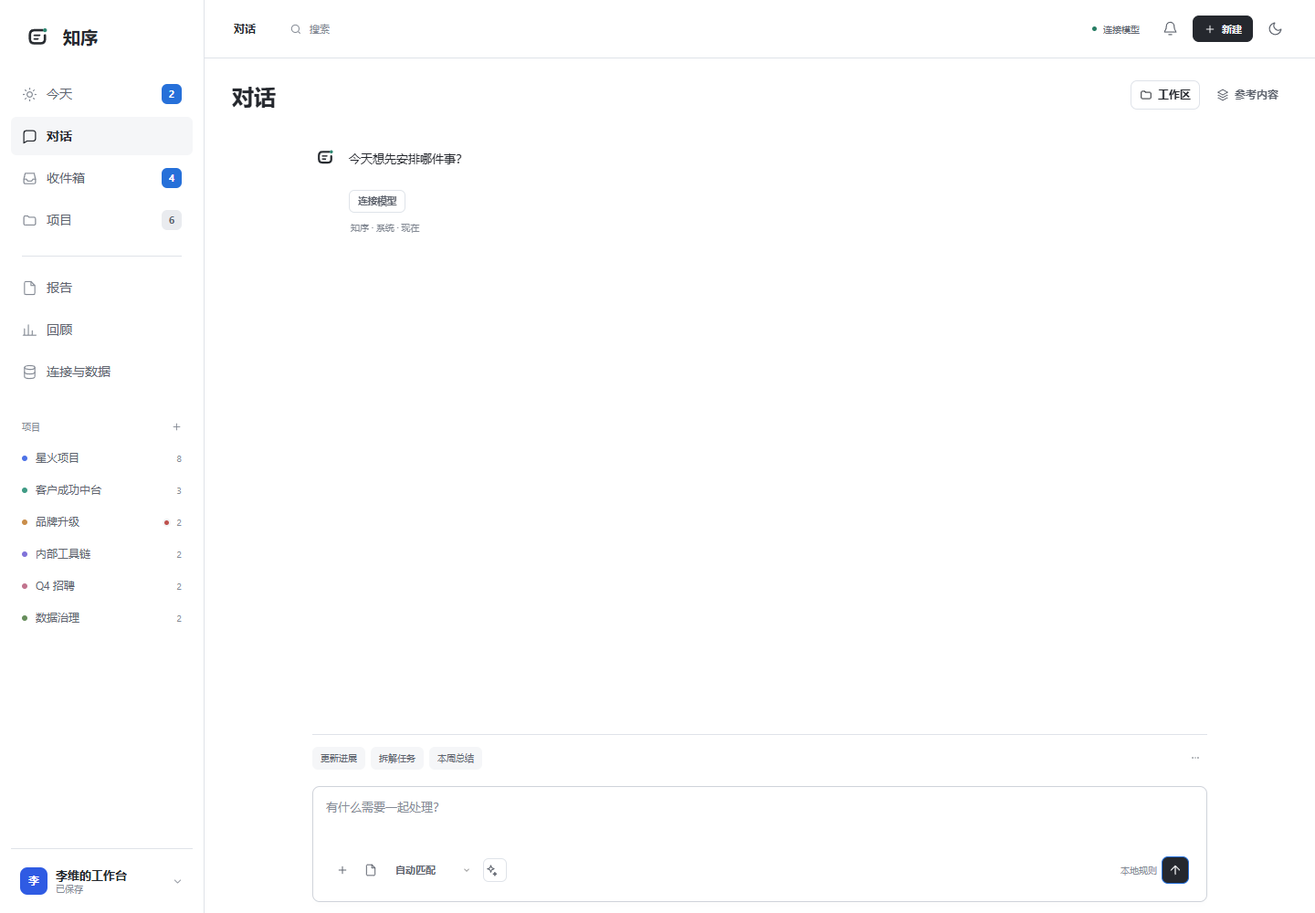
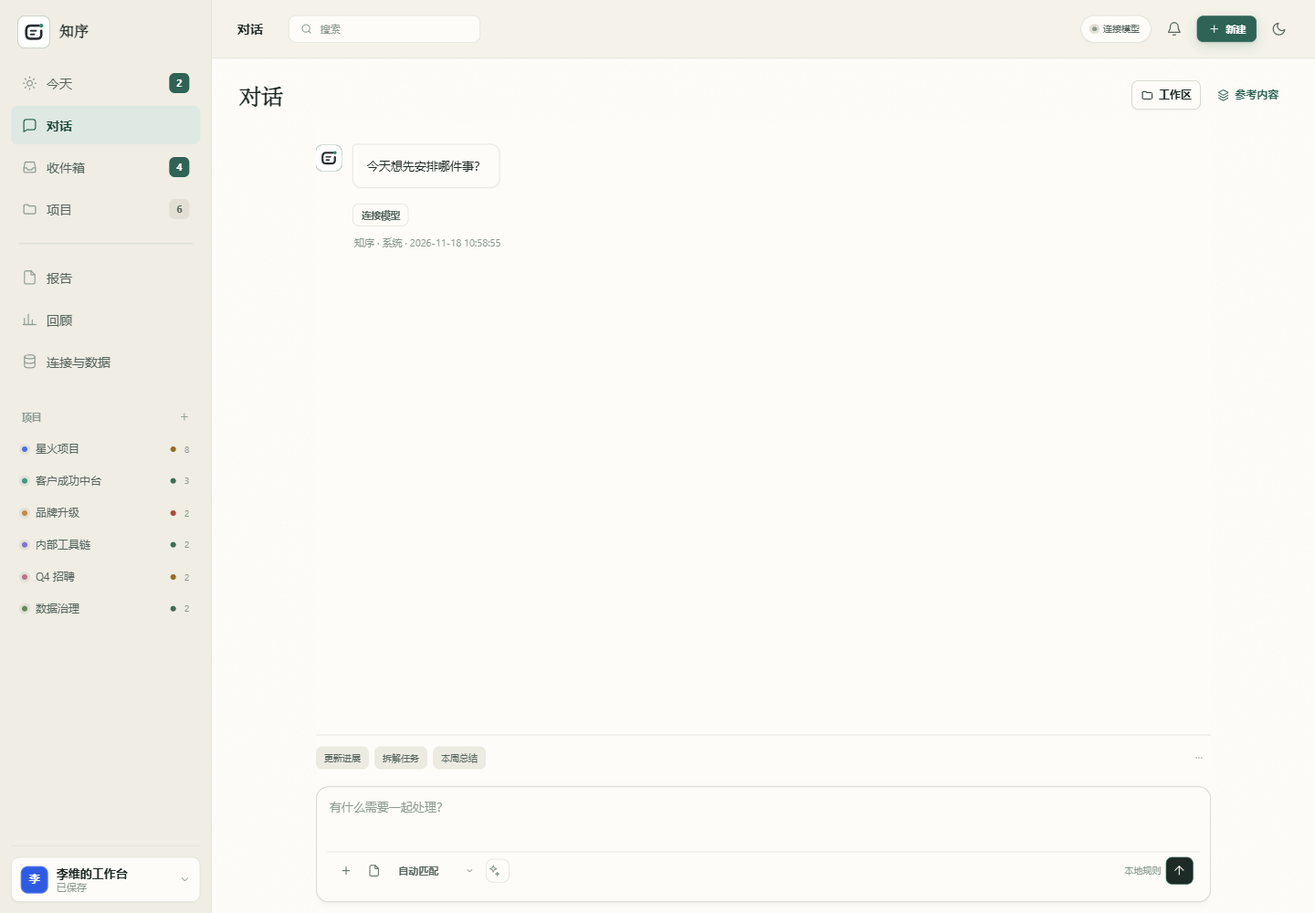
fix(ui): stabilize sidebar and clarify project status

diff --git a/prototype/premium.css b/prototype/premium.css
@@ -129,9 +129,22 @@ strong, b { font-weight: 640; }
   background: var(--bg-elev);
   border-right: 1px solid var(--line);
   padding: 16px 12px 12px;
-  position: relative;
+  position: sticky;
+  top: 0;
+  overflow: hidden;
   z-index: 1;
 }
+.sidebar > .brand,
+.sidebar > .nav,
+.sidebar > .side-section,
+.sidebar > .sidebar-footer { flex: 0 0 auto; }
+.sidebar > .project-nav {
+  flex: 1 1 0;
+  min-height: 0;
+  overflow-y: auto;
+  overscroll-behavior-y: contain;
+}
+.project-nav > .project-nav-item { flex-shrink: 0; }
 .brand { padding: 2px 8px 18px; }
 .brand-name { font-size: 16px; font-weight: 700; letter-spacing: .08em; color: var(--ink); }
 .brand-image { border-radius: 7px; }
@@ -165,6 +178,10 @@ strong, b { font-weight: 640; }
 .project-nav-item:hover { background: var(--surface-2); }
 .project-nav-item.active { background: var(--surface-2); color: var(--ink); font-weight: 640; }
 .project-nav-item .dot { box-shadow: 0 0 0 3px color-mix(in srgb, currentColor 10%, transparent); }
+.project-nav-item .project-health-dot { width: 6px; height: 6px; flex: 0 0 6px; border-radius: 50%; }
+.project-health-dot.green { background: var(--green); }
+.project-health-dot.amber { background: var(--amber); }
+.project-health-dot.red { background: var(--red); }
 .side-label { font-size: 10.5px; font-weight: 650; letter-spacing: .09em; text-transform: uppercase; color: var(--ink-3); }
 .workspace-switch {
   border: 1px solid var(--line); background: var(--surface); border-radius: 9px;
@@ -238,7 +255,7 @@ strong, b { font-weight: 640; }
 }
 .card:hover, .settings-card:hover { border-color: var(--line-strong); box-shadow: var(--shadow-md); }
 .panel-head { border-bottom: 1px solid var(--line); }
-.stat-value { font-variant-numeric: tabular-nums; font-weight: 700; letter-spacing: -.01em; font-family: Georgia, serif; }
+.stat-value { font-variant-numeric: lining-nums tabular-nums; font-weight: 600; letter-spacing: normal; font-family: var(--font); }
 .stat-label { color: var(--ink-3); font-size: 11.5px; }
 
 /* ============================ 表单 / 标签 ============================ */

diff --git a/prototype/views-core.js b/prototype/views-core.js
@@ -18,7 +18,7 @@ function renderSidebar() {
     <button class="project-nav-item ${state.view === 'project' && state.projectId === p.id ? 'active' : ''}" data-action="project" data-id="${p.id}">
       <span class="dot" style="background:${p.color}"></span>
       <span class="pname">${esc(p.name)}</span>
-      ${p.health === 'red' ? '<span class="risk-dot" title="有风险"></span>' : ''}
+      <span class="project-health-dot ${p.health === 'red' ? 'red' : p.health === 'amber' ? 'amber' : 'green'}" role="img" title="${p.health === 'red' ? '风险' : p.health === 'amber' ? '需关注' : '正常'}" aria-label="状态：${p.health === 'red' ? '风险' : p.health === 'amber' ? '需关注' : '正常'}"></span>
       <span class="pcount">${allWorkbenchTasks().filter(t => t.project === p.id && !t.done).length}</span>
     </button>
   `).join('');

diff --git a/docs/26-知序操作手册.md b/docs/26-知序操作手册.md
@@ -1,16 +1,16 @@
 # 知序操作手册
 
-适用版本：0.2.19。更新日期：2026-11-09。
+适用范围：当前 Windows 桌面源码。更新日期：2026-11-18。安装包的功能以对应正式 Release 说明为准。
 
 本手册以 Windows 桌面版为准。通过“网页访问”开启的 HTTPS 工作台与桌面共用数据，使用方法见第 13 节；开发端口上的本地浏览器预览仍有独立数据。插件、终端、本机目录和原生浏览器功能在桌面使用。
 
 ## 1. 从哪里开始
 
-1. 安装 GitHub Releases 中的 `Zhixu-0.2.19-Windows-Setup.exe`，从桌面的“知序”打开。
+1. 从 GitHub Releases 下载最新正式版的 `Zhixu-<版本>-Windows-Setup.exe`，安装后从“知序”入口打开。
 2. 点击左侧底部的工作台头像，设置姓名、工作台信息和头像，保存。头像支持 JPG、PNG、WebP，最大 5 MB；也可以选择颜色。
 3. 如需 AI 问答和文档理解，在个人设置中配置供应商，具体见第 3 节。不配置时仍能手动管理项目、任务，并使用本地事项整理规则。
 4. 到“项目”创建实际项目，填写负责人、目标和干系人。
-5. 使用“添加事项”录入工作，或上传资料分析，再检查日期、负责人和任务内容。
+5. 使用顶部“新建”录入事项，或上传资料分析，再检查日期、负责人和任务内容。
 
 首次运行会显示示例资料。示例不代表你的真实项目；新建自己的项目后，再按需要逐项处理示例，避免误删实际工作记录。
 
@@ -46,6 +46,18 @@ flowchart LR
 
 左侧数量角标分别提示今天未完成任务、收件箱待处理事项和项目数。窄窗口保留角标；超过 99 显示 `99+`，悬停查看完整数量。不同模块的统计口径不同，例如“项目”统计仅包含已关联项目的任务。
 
+左侧“今天”至“连接与数据”的主导航和底部工作台保持可见。项目较多时，在项目名称列表内滚动；列表使用中间剩余空间，项目标题、主导航和工作台不会随列表移动。页面主内容与项目列表分别滚动。窄窗口沿用精简侧栏，项目列表可能折叠，可从主导航“项目”进入项目页。
+
+项目列表中，名称左侧圆点表示项目配色；右侧小点表示健康状态，与项目设置中的健康度同步：
+
+| 右侧小点 | 含义 |
+| --- | --- |
+| 绿色 | 正常 |
+| 黄色 | 需关注 |
+| 红色 | 风险 |
+
+悬停在状态小点上可查看文字说明；辅助阅读也会读出状态。小点旁的数字为该项目尚未完成的任务数量，与健康状态是两项信息。
+
 顶部铃铛打开“本地简报”，查看待确认、等待事项、计时及关注的里程碑。它不是系统推送通知，也不会在退出知序后自动发提醒。
 
 ## 3. 配置模型并开始对话
@@ -61,6 +73,8 @@ flowchart LR
 诊断失败时查看具体的接口路径、HTTP 状态、耗时和处理建议。认证错误优先核对密钥与权限；模型不存在时核对模型名；网络超时先检查接口地址和网络。模型列表能获取，不代表真实问答一定成功，需同时检查真实请求结果。
 
 密钥填写在应用内，不要粘贴到对话、手册、截图或 GitHub。桌面版凭据使用 Windows 系统安全存储加密。
+
+没有自有 API Key 时，可在“设置 → 模型”选择内置免费 AI（体验版），先阅读并确认其数据处理中转说明；体验额度有限。也可继续使用本地规则，手动管理项目与任务。获取自己的 API Key、改用其他供应商或关闭内置模式均在模型设置中完成。
 
 ### 3.2 提问、下指令、更新进展
 
@@ -98,7 +112,7 @@ flowchart LR
 
 在“干系人”点击“添加干系人”，填写姓名和角色；可继续添加、修改或移除，最后点击“保存项目”。项目概览也提供管理入口。干系人用于记录人员关系，不代表向这些人发出邀请或自动开通账号。
 
-新项目会自动分配颜色，项目卡片、侧栏圆点保持一致，重启后保留。卡片与列表视图均可打开项目，列表中的操作列可编辑、删除。
+新项目会自动分配颜色，项目卡片与侧栏左侧圆点保持一致，重启后保留。侧栏右侧小点单独表示健康状态，修改健康度后同步更新。卡片与列表视图均可打开项目，列表中的操作列可编辑、删除。
 
 ### 4.2 项目详情
 
@@ -242,6 +256,10 @@ flowchart LR
 
 进入“回顾”，查看实际完成比例、安排与投入趋势、计时记录，按需要维护个人实验。回顾用于检查安排是否合理，不会自动替你调整后续任务。
 
+顶部统计卡片显示所选周期的安排任务数、已完成数、完成比例和已记录专注时间。数字采用等高、等宽样式，百分比和小时单位与数字一起显示。完成比例来自实际任务，专注时间来自计时记录；切换字体样式不改变统计值。
+
+![回顾统计卡片与侧栏项目状态](images/readme-review.png)
+
 ## 10. 连接与数据
 
 ### 10.1 连接器
@@ -294,7 +312,7 @@ flowchart LR
 
 原附件通常在 `%APPDATA%\Zhixu\attachments\`，插件在 `%APPDATA%\Zhixu\plugins\`。修改过数据位置的环境，应以“关于 → 数据与隐私”显示的实际路径为准。
 
-0.2.17 起使用 `Zhixu` 作为默认数据目录名。升级会把旧版默认目录 `%APPDATA%\Xiaoyu\` 的数据库、附件、插件、网页配置和备份复制到新目录，完成校验后才启用；原目录保留。已有自定义数据位置继续沿用。迁移失败时继续使用原位置并提示，不覆盖已有的新目录。
+默认数据目录名为 `Zhixu`。检测到旧默认目录 `%APPDATA%\Xiaoyu\` 时，升级会复制数据库、附件、插件、网页配置和备份，完成校验后才启用新目录；原目录保留。已有自定义数据位置继续沿用。迁移失败时继续使用原位置并提示，不覆盖已有的新目录。
 
 更改数据位置：打开“设置 → 关于 → 数据与隐私”，点击“更改位置”，选择一个空文件夹并确认。知序会先保存当前工作、停止网页访问，再复制数据库、附件、插件、网页访问配置、备份和更新设置，校验数据库后自动重启。原位置保留完整副本，可在确认新位置正常后自行处理。目标不是空文件夹、位于当前数据文件夹内部或复制失败时，迁移会停止或清理目标，不会覆盖原数据。若启动时提示已选择的数据位置不可用，知序会改用默认位置启动，恢复原文件夹后可在同一处重新设置。
 
@@ -318,7 +336,7 @@ flowchart LR
 
 ## 13. 不同 Wi-Fi 下访问
 
-0.2.16 起，点击桌面左下工作台，在“设置 → 通用 → 网页访问”直接点击“开启网页访问”。密码留空时会自动生成 36 位强密码，显示在窗口并复制到剪贴板；复制生成的 HTTPS 地址，在手机或其他电脑浏览器打开地址并登录，使用原电脑上的同一份项目、任务、附件和模型配置。
+点击桌面左下工作台，在“设置 → 通用 → 网页访问”点击“开启网页访问”。密码留空时会自动生成 36 位强密码，显示在窗口并复制到剪贴板；复制生成的 HTTPS 地址，在手机或其他电脑浏览器打开地址并登录，使用原电脑上的同一份项目、任务、附件和模型配置。
 
 访问运行中也可以在“网页访问”窗口点“生成密码”立即应用新密码并重新开启入口，旧密码和原登录会话随即失效。密码只保存加盐哈希，关闭窗口后无法再次查看；忘记时重新生成并复制，不要凭截图中的旧密码尝试登录。
 
@@ -328,7 +346,7 @@ flowchart LR
 
 ## 14. 软件更新
 
-0.2.15 起，点击左下工作台，在“设置 → 版本与更新”查看当前版本、检查时间、下载进度和失败原因；同一窗口的“关于”可查看版本、打开 GitHub 仓库或提交反馈。
+点击左下工作台，在“设置 → 版本与更新”查看当前版本、检查时间、下载进度和失败原因；同一窗口的“关于”可查看版本、打开 GitHub 仓库或提交反馈。
 
 默认启动约 15 秒后检查，运行期间每 6 小时检查一次；发现正式新版本后后台下载并校验。下载完成会自动弹出更新窗口；若当前正在编辑其他窗口，更新窗口会等其关闭后显示，右下角也会保留“新版本已就绪”入口。点击“重启并更新”并确认后，应用保存工作、备份数据库并覆盖安装到原位置。不会新增另一个桌面程序，也不会强制重启。自动检查可关闭，关闭后仍能手动检查。
 
@@ -336,8 +354,8 @@ flowchart LR
 
 当前更新源为 GitHub Releases（仓库公开）：
 
-1. 0.2.15 起，更新检查固定匿名访问，无需 Git、GitHub 登录或更新凭据；其他电脑安装后也能独立检查公开版本。
-2. 0.2.13 及更早版本检查失败时，无法通过旧更新流程自行获得此修复。请从 GitHub Releases 手动下载 0.2.15 完整安装包覆盖安装一次，后续版本即可自动发现。
+1. 更新检查匿名访问公开版本，无需 Git、GitHub 登录或更新凭据；其他电脑安装后也能独立检查。
+2. 更新检查失败时，先重试；仍不可用时，从 GitHub Releases 下载最新正式版完整安装包，正常退出应用后覆盖安装。
 3. 更新只替换应用程序，不把项目、任务或附件上传到 GitHub。桌面工作数据默认保存在当前 Windows 用户本机 `%APPDATA%\Zhixu\`，也可在“关于 → 数据与隐私”改到其他本机文件夹；不同电脑各自独立，跨设备网页访问才会连接主机上的同一份数据。
 
 网络失败可继续使用旧版本并重试；校验失败不会安装。更新连接使用系统代理，存在 `HTTPS_PROXY` 或 `HTTP_PROXY` 环境设置时沿用该代理；连续 60 秒没有响应会停止等待并提示重新检查。旧版本保存的更新令牌会被忽略并清理，不影响模型 API Key、网页访问密码或工作数据。

diff --git a/docs/42-发布与自动更新运维手册.md b/docs/42-发布与自动更新运维手册.md
@@ -1,87 +1,70 @@
 # 知序 · 发布与自动更新运维手册
 
-本文记录 0.2.19 发布卡住的根因、修复方式与后续标准流程。面向维护者。
+更新日期：2026-11-18。本文面向维护者，说明当前代码提交、审核、发布与验证流程。
 
-## 1. 自动更新如何工作
+## 1. 代码提交与审核
 
-桌面端使用 `electron-updater` 的 GitHub provider：
+1. 从最新 `origin/main` 创建工作分支，提交代码和对应 README、操作手册的更新。
+2. 只提交源码、配置和公共文档。数据库、附件、API Key、网页密码、GitHub 凭据、个人日志、依赖缓存和安装产物不进入代码 PR。
+3. 执行类型检查、生产构建及相关测试，在 PR 中写明实际验证结果。
+4. 推送工作分支，创建以 `main` 为目标的 PR，完成审核后合并。
+5. 需要正式发布时，在经过审核的变更中同步 `package.json` 与 `package-lock.json` 的版本号，准备对应发布说明。未完成审核的工作分支不直接发布正式 Release。
 
-1. 客户端向 `https://api.github.com/repos/HUlI-J/ZHIXU/releases/latest` 查询**已正式发布**的 Release。
-2. 读取该 Release 里的 `latest.yml`，得到版本号、安装包 URL 与 `sha512`。
-3. 版本更高则后台下载，校验 `sha512` 通过后提示用户重启安装。
+## 2. GitHub Actions 发布（推荐）
 
-关键前提：**只有已发布（非草稿、非预发布）且带齐资源的 Release 才会被识别。** 仅推送 git tag、或把 Release 留在草稿状态，客户端永远看不到新版本。
+合入 `main` 后，在 Actions 运行 **Release Desktop**：
 
-## 2. 0.2.19 发布卡住的根因
+- 分支选择 `main`。
+- `version` 填写与 package.json 一致的版本号，不带 `v`。
+- `notes_path` 填写仓库中实际存在的发布说明路径，例如 `docs/<版本>发布说明.md`；不要沿用不存在的模板路径。
 
-2026-11-16 排查确认：
+流水线使用 Node.js 24，执行依赖安装、Windows 构建打包、资源校验、Release 创建与更新源复核。工作流文件为 `.github/workflows/release.yml`。手动触发工作流本身不等于完成 PR 审核，维护者需要先确认来源提交已经审核合入 main。
 
-| 检查项 | 实际状态 | 影响 |
-| --- | --- | --- |
-| `v0.2.19` git tag | 已存在 | 代码已更新 |
-| `v0.2.19` GitHub Release | **草稿**（`draft: true`，`published_at: null`） | 更新源不可见 |
-| Release 资源 | **0 个** | 即使发布也没有 `latest.yml` |
-| 上传请求 | 返回 `Multipart form data required`，未重试 | 上传步骤失败后流程中断 |
-| Release 标题 | 乱码 `鐭ュ簭 0.2.19` | PowerShell 5.1 把 UTF-8 无 BOM 的 `.ps1` 当 GBK 读取 |
-| 仓库所有者拼写 | 代码里写成 `HULI-J`，真实 login 是 `HUlI-J` | 大小写不一致，潜在隐患 |
-| `latest.yml`（v0.2.17） | 正确 | 客户端因此一直认为 0.2.17 是最新版 |
+## 3. 本地发布方式
 
-结论：不是版本号检测、签名或发布格式的问题，而是**发布流程未完成**——Release 停留在草稿且资源为空。
-
-## 3. 已完成的修复
-
-- 将卡住的草稿 Release `438397764` 补齐 5 个资源并正式发布为 `v0.2.19`：
-  - `Zhixu-0.2.19-Windows-Setup.exe`（163,694,553 字节，sha512 与 `latest.yml` 一致）
-  - `Zhixu-0.2.19-Windows-Setup.exe.blockmap`
-  - `latest.yml`（version 0.2.19）
-  - `Zhixu-0.2.19-source.zip`
-  - `SHA256SUMS-0.2.19.txt`
-- 修正 Release 标题为 `知序 0.2.19`，正文为正确 UTF-8。
-- 统一全仓库所有者拼写为 `HUlI-J`。
-- 重写 `scripts/publish-release.ps1`：UTF-8 显式读写、标题从发布说明读取、上传重试、size/digest/state 三重校验、新增 `status` 诊断、发布时自动修正旧草稿乱码。
-- 新增 `.github/workflows/release.yml`：手动触发的标准发布流水线，构建 → 校验 → 创建 Release → 上传资源 → 发布 → 复核更新源。
-- 提升 UI 质感：新增 `prototype/premium.css`，并接入原型页与桌面渲染入口。
-
-## 4. 标准发布流程（二选一）
-
-### 方式 A：GitHub Actions（推荐）
-
-1. 通过 PR 合并版本变更到 `main`，确认 `package.json` 版本与目标一致。
-2. 在 Actions 页运行 **Release Desktop**，填写版本号与发布说明路径。
-3. 流水线自动构建、上传、发布并复核 `releases/latest`。
-
-### 方式 B：本地脚本
-
-在 Windows、项目根目录执行：
+在 Windows 项目根目录，确认代码已经审核合入 main，且版本和发布说明准备完毕后执行。将 `$NotesPath` 改为本次实际发布说明；显式传入版本与说明路径，避免沿用脚本的旧版本默认值：
 
 ```powershell
+npm ci
 npm run dist
-powershell -File scripts/publish-release.ps1 -Action create
-powershell -File scripts/publish-release.ps1 -Action upload
-powershell -File scripts/publish-release.ps1 -Action publish
-powershell -File scripts/publish-release.ps1 -Action verify
+$ReleaseVersion = (Get-Content package.json -Raw | ConvertFrom-Json).version
+$NotesPath = 'docs/本次发布说明.md'
+powershell -File scripts/publish-release.ps1 -Action create -Version $ReleaseVersion -NotesPath $NotesPath
+powershell -File scripts/publish-release.ps1 -Action upload -Version $ReleaseVersion -NotesPath $NotesPath
+powershell -File scripts/publish-release.ps1 -Action publish -Version $ReleaseVersion -NotesPath $NotesPath
+powershell -File scripts/publish-release.ps1 -Action verify -Version $ReleaseVersion -NotesPath $NotesPath
 ```
 
-任一步失败可先诊断：
+凭据使用发布环境的授权方式提供，不写入仓库。出现失败时先运行 `powershell -File scripts/publish-release.ps1 -Action status -Version $ReleaseVersion -NotesPath $NotesPath` 检查实际状态，避免重复发布或遗漏资源。
 
-```powershell
-powershell -File scripts/publish-release.ps1 -Action status
-```
+## 4. 必需发布产物
 
-## 5. 发布后自检清单
+对版本 `<版本>`，正式 Release 应包含：
 
-- [ ] `https://api.github.com/repos/HUlI-J/ZHIXU/releases/latest` 返回目标版本
-- [ ] `draft: false`、`prerelease: false`、`published_at` 有值
-- [ ] 5 个资源齐全，`state: uploaded`
-- [ ] `latest.yml` 的 `version` 与 Release tag 一致，安装包 `sha512` 与本地文件一致
-- [ ] Release 标题与正文无乱码
-- [ ] 客户端“设置 → 关于/更新”点击“检查更新”能发现新版本
+- `Zhixu-<版本>-Windows-Setup.exe`
+- `Zhixu-<版本>-Windows-Setup.exe.blockmap`
+- `latest.yml`
+- `Zhixu-<版本>-source.zip`
+- `SHA256SUMS-<版本>.txt`
 
-## 6. 客户端为何仍停在 0.2.17？
+上传前确认版本一致、文件完整，并核对 SHA-256 清单和 latest.yml 中安装包的 SHA-512。源码包需排除数据库、附件、凭据、node_modules、临时文件和缓存；构建产物通过 Release 交付。
 
-如果你现在的客户端还显示旧版本：
+## 5. 自动更新与发布后复核
 
-1. 桌面端启动 15 秒后自动检查一次，之后每 6 小时检查一次；可在设置里手动点“检查更新”。
-2. 自动更新开关若被关闭，请打开后它会立即检查一次。
-3. 检查 `HTTPS_PROXY` / 系统代理配置；更新请求走 Electron 的 net session 代理。
-4. 若网络正常且仍看不到 0.2.19，请确认客户端版本确实是从官方 Release 安装的正版安装包（开发预览模式不会安装更新）。
+桌面端匿名访问 `https://api.github.com/repos/HUlI-J/ZHIXU/releases/latest`，读取正式 Release 的 `latest.yml`，发现更高版本时下载并校验，之后由用户确认重启安装。草稿、预发布或只有 tag 的提交不等于可用的正式更新。
+
+发布后检查：
+
+1. Release 已正式发布，标题和说明正常显示，版本及目标提交正确。
+2. 五项资源齐全，文件大小及散列正确，下载的 latest.yml 与安装包一致。
+3. releases/latest 返回本次正式版本，客户端可发现更新。
+4. 在隔离测试数据上安装、启动、重启，检查数据持久化与改动功能。
+5. 确认更新没有改变用户数据位置，旧数据与附件仍能读取。
+
+## 6. 常见问题
+
+- **客户端看不到更新**：检查 Release 是否仍为草稿、是否为预发布、版本是否更高，以及 latest.yml 是否存在。
+- **资源上传失败或不完整**：检查发布日志、授权与网络，再核对资源状态、大小和散列；不要先宣告发布成功。
+- **版本不一致**：同时核对 package.json、package-lock.json、tag、Release 和 latest.yml。
+- **标题乱码**：脚本和发布说明使用 UTF-8，Windows PowerShell 5.1 的脚本文件需注意编码识别。
+- **网络失败**：检查系统代理或 HTTPS_PROXY / HTTP_PROXY，保留失败信息并重试；不要以关闭校验代替处理网络问题。

diff --git a/README.md b/README.md
@@ -55,7 +55,9 @@
 
 ### 项目与任务
 
+- 左侧主导航和底部工作台保持可见，项目列表独立滚动，项目较多时也能快速切换。
 - 项目台账、独立颜色、干系人、里程碑、风险和进展记录。
+- 项目列表左侧圆点表示项目配色，右侧小点表示健康状态：绿色正常、黄色需关注、红色风险；悬停可查看文字说明。
 - 任务捕获、改期、截止日期、优先级、预计工时、计时、状态和备注。
 - 逾期、等待、收件箱和回收站支持归档、恢复与清理。
 - 删除项目时保留关联任务并解除项目关系；失效项目不会回退显示成另一个项目。
@@ -66,6 +68,11 @@
 - 先保存原文件，再提取正文；解析失败时保留原文件和失败原因。
 - 分析结果可以归档到已有项目、拆解为任务，或保留为待确认的新项目草稿。
 - 支持日报、周报、月报、项目状态、风险分析和需求清单，并可导出 Markdown、Word、Excel、PDF。
+- 回顾按统计周期展示安排任务、已完成、完成比例和专注时间，数字采用统一、清晰的等高样式。
+
+<p align="center">
+  <img src="docs/images/readme-review.png" alt="知序回顾：统计卡片、任务趋势与项目状态" width="100%">
+</p>
 
 ### 工作区与扩展
 
@@ -90,7 +97,7 @@
 
 安装包不需要另外安装 Node.js 或 Python。工作数据默认保存在当前 Windows 用户的 `%APPDATA%\Zhixu\`；升级时若检测到旧版 `%APPDATA%\Xiaoyu\`，会先复制到新目录，旧目录仍保留作为备份。也可以在设置中选择其他本机文件夹。
 
-`0.2.17` 起统一使用知序 / Zhixu 命名；`0.2.19` 起正式发布流程要求通过 `main` 的 PR 审核后再创建 Release。已有自定义数据位置和安装位置继续沿用。数据库文件仍名为 `workbench.sqlite`，不需要手动修改数据库或重建工作台。
+已有自定义数据位置和安装位置继续沿用，数据库文件名为 `workbench.sqlite`。源码说明对应当前分支，下载的安装包功能以其正式 Release 说明为准。
 
 ## 隐私边界
 
@@ -149,6 +156,8 @@ docs/           使用手册、设计文档和版本说明
 修改 `prototype/` 后，`npm run build` 会先同步工作台资源，再生成 Electron 产物。不要直接编辑 `out/`、`desktop-public/` 或 `release/`。
 
 ## 反馈与贡献
+
+代码与文档变更通过分支提交 PR，审核合入 `main` 后再创建正式 Release。发布步骤见[发布与自动更新运维手册](docs/42-发布与自动更新运维手册.md)。
 
 请通过 [GitHub Issues](https://github.com/HUlI-J/ZHIXU/issues) 反馈问题，尽量附上：
 
